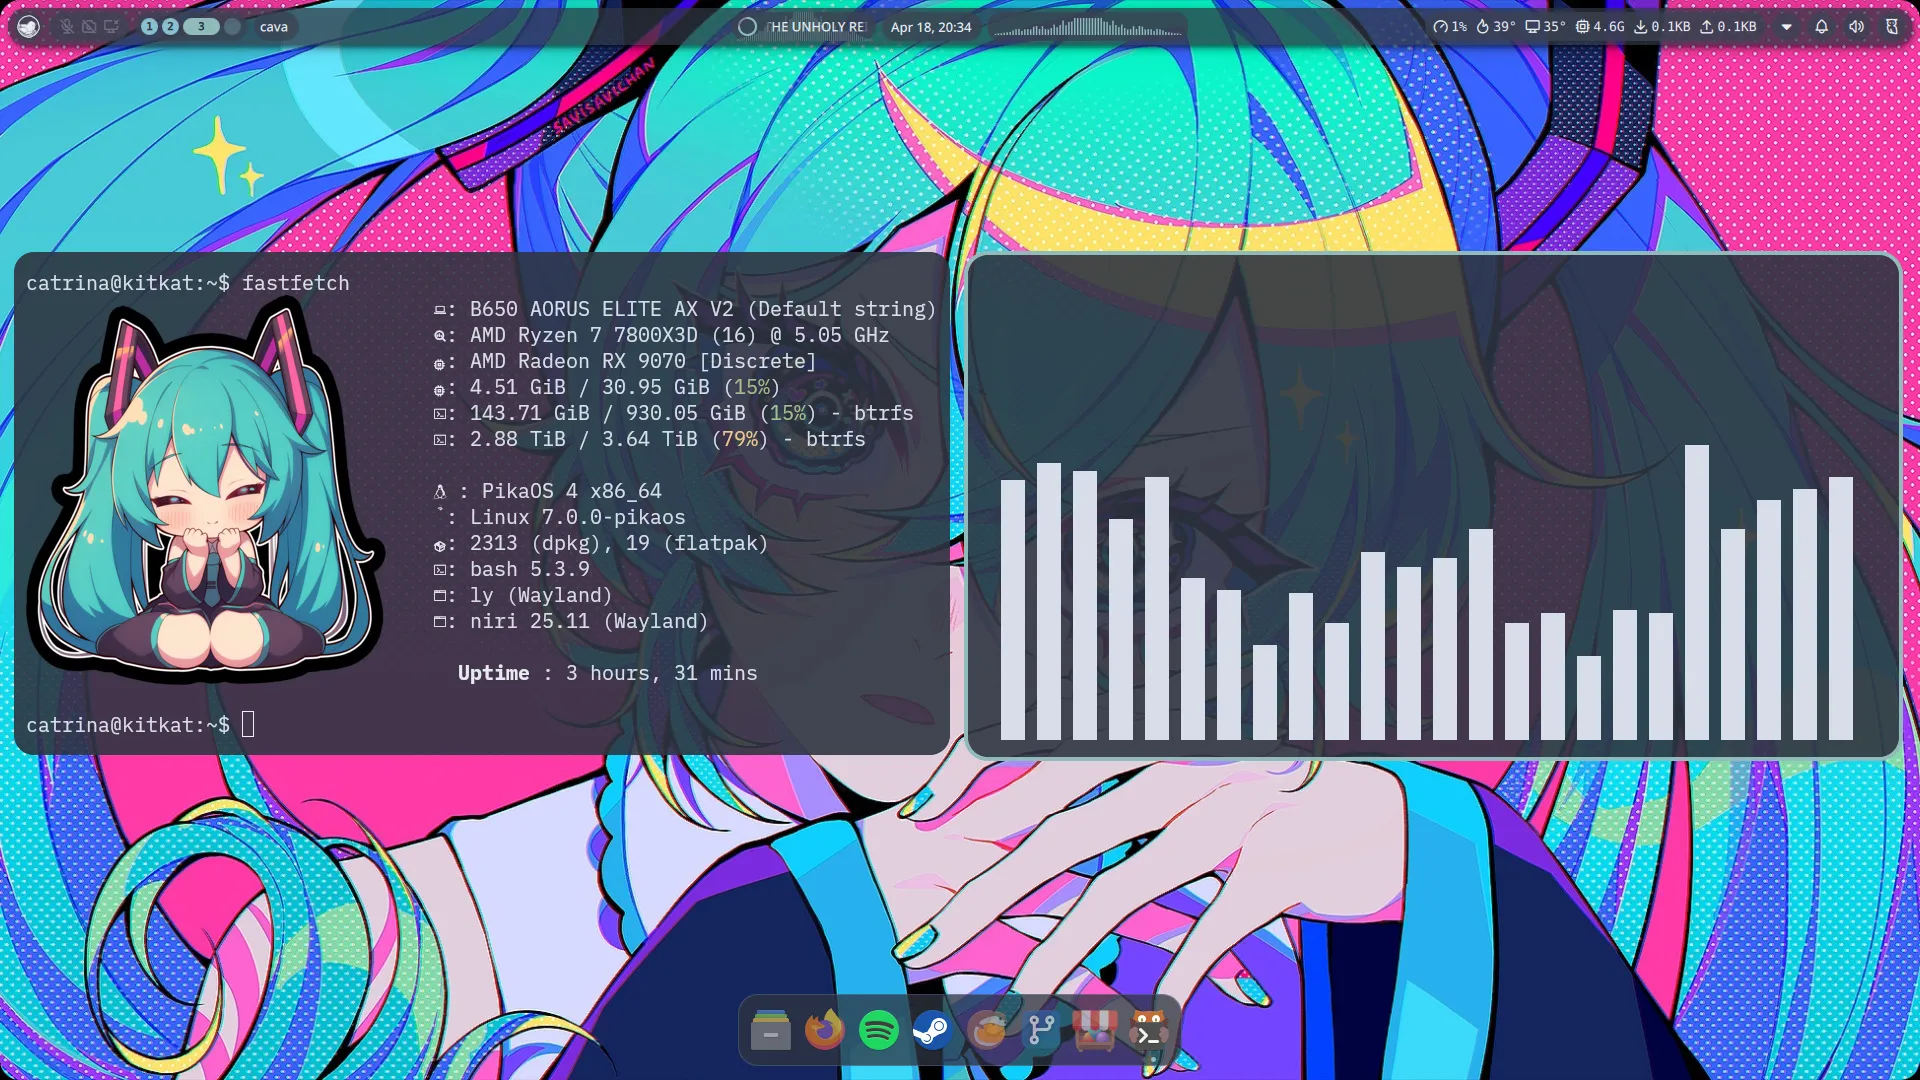
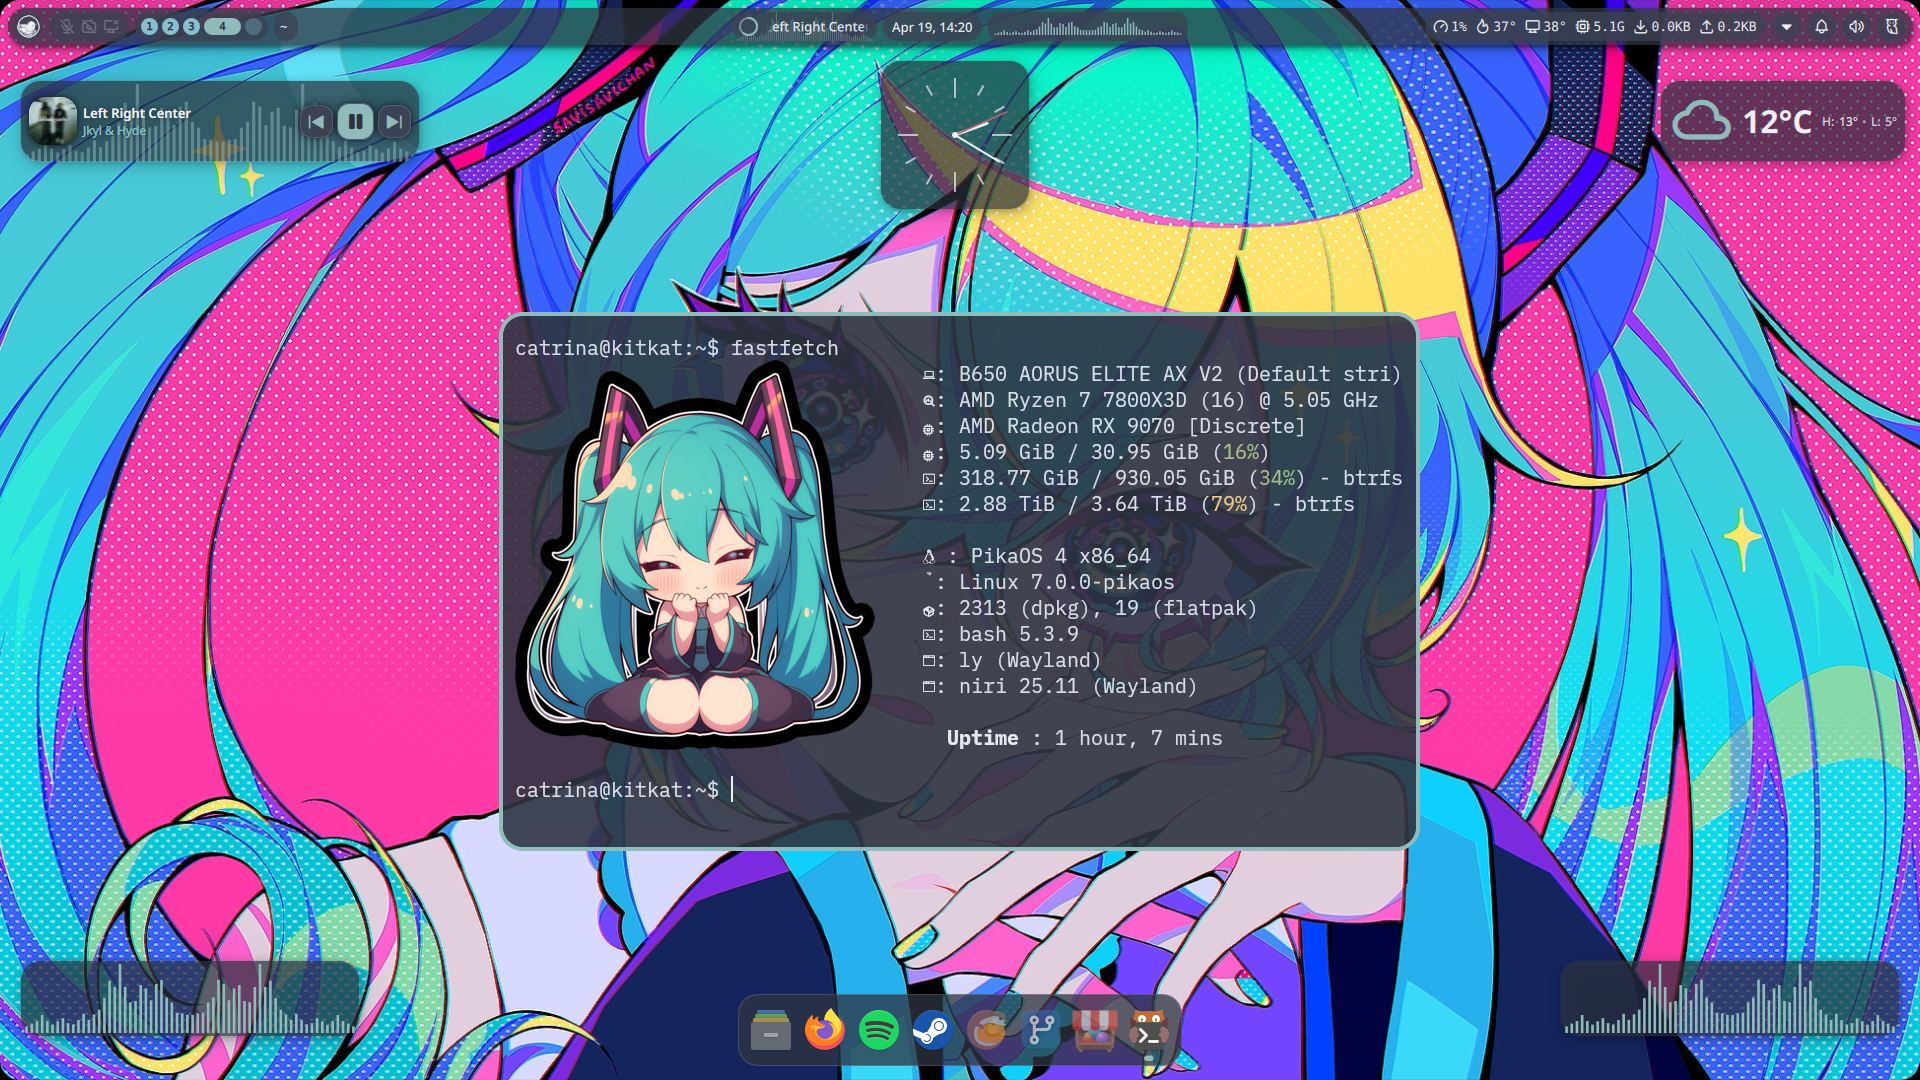
Include Desktop Widgets In Screenshot

diff --git a/README.md b/README.md
@@ -13,7 +13,7 @@ ________________________________________________________________________________
 
 ![KitKat's Desktop](kitkats-desktop.png)
 
-*KitKat's Desktop Running Niri/Noctalia Shell On PikaOS*
+*KitKat's Desktop Included With Desktop Widget's Running Niri/Noctalia Shell On PikaOS*
 
 _____________________________________________________________________________________________________________________
 
